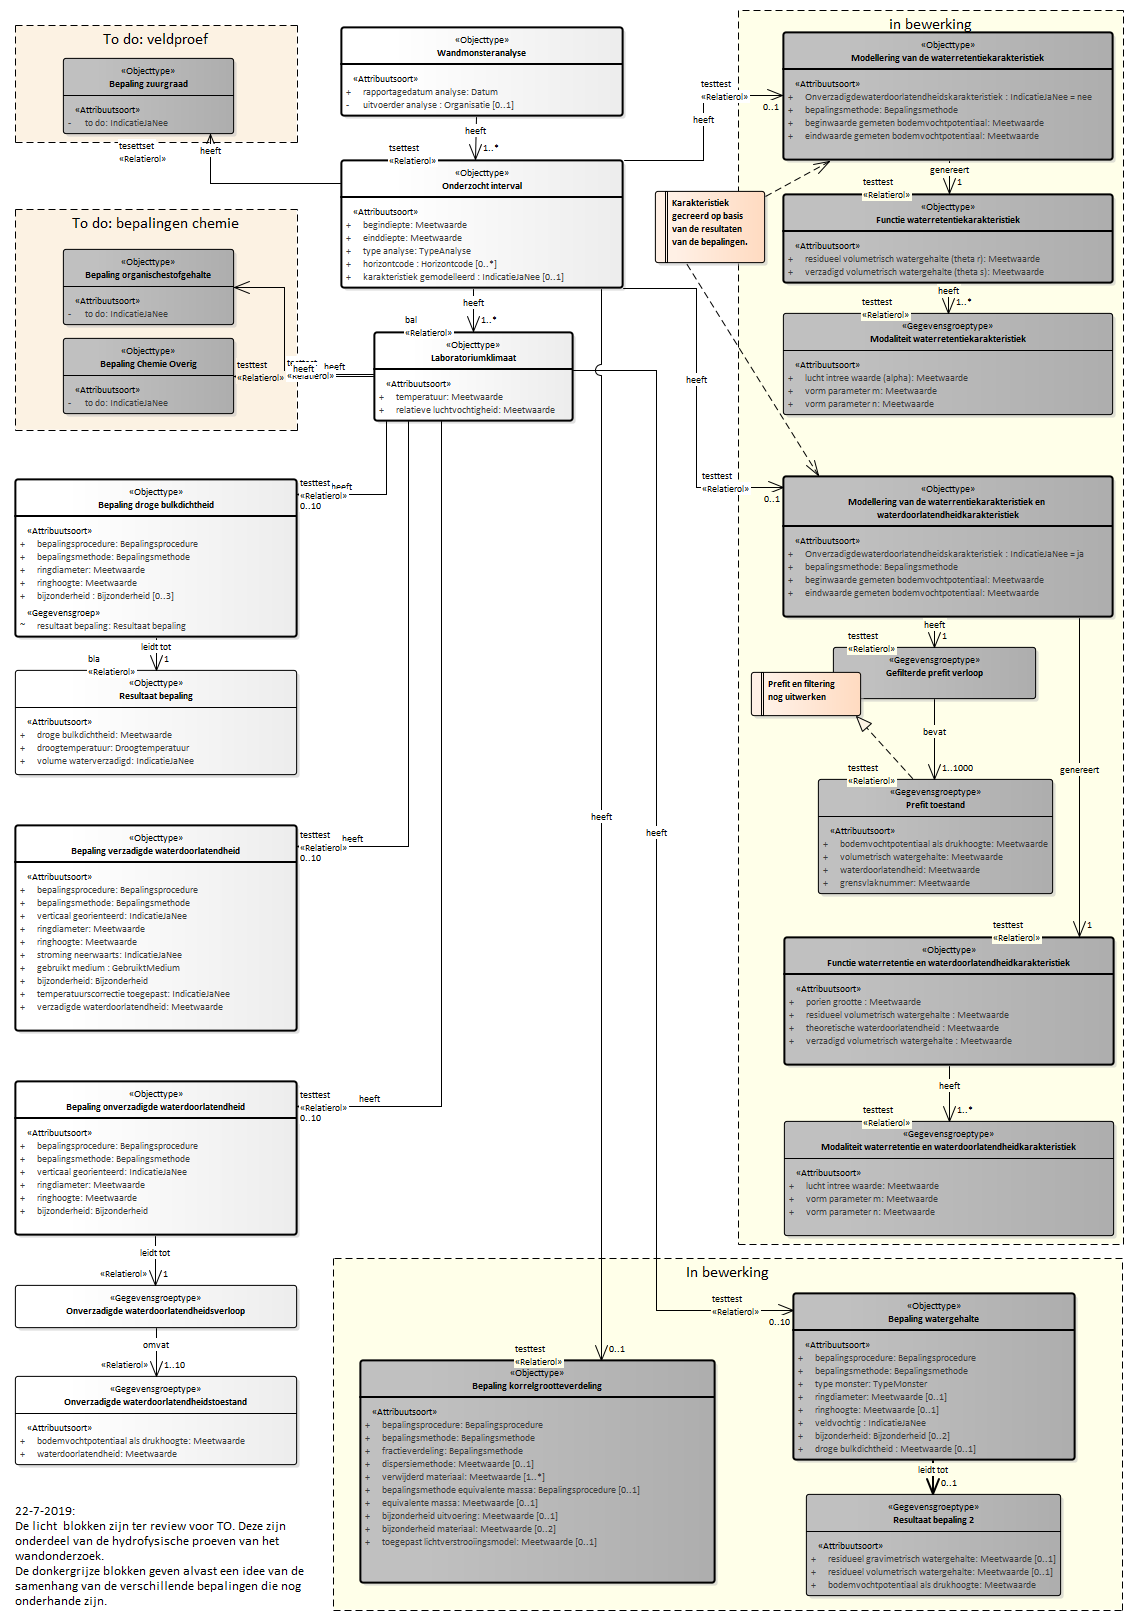
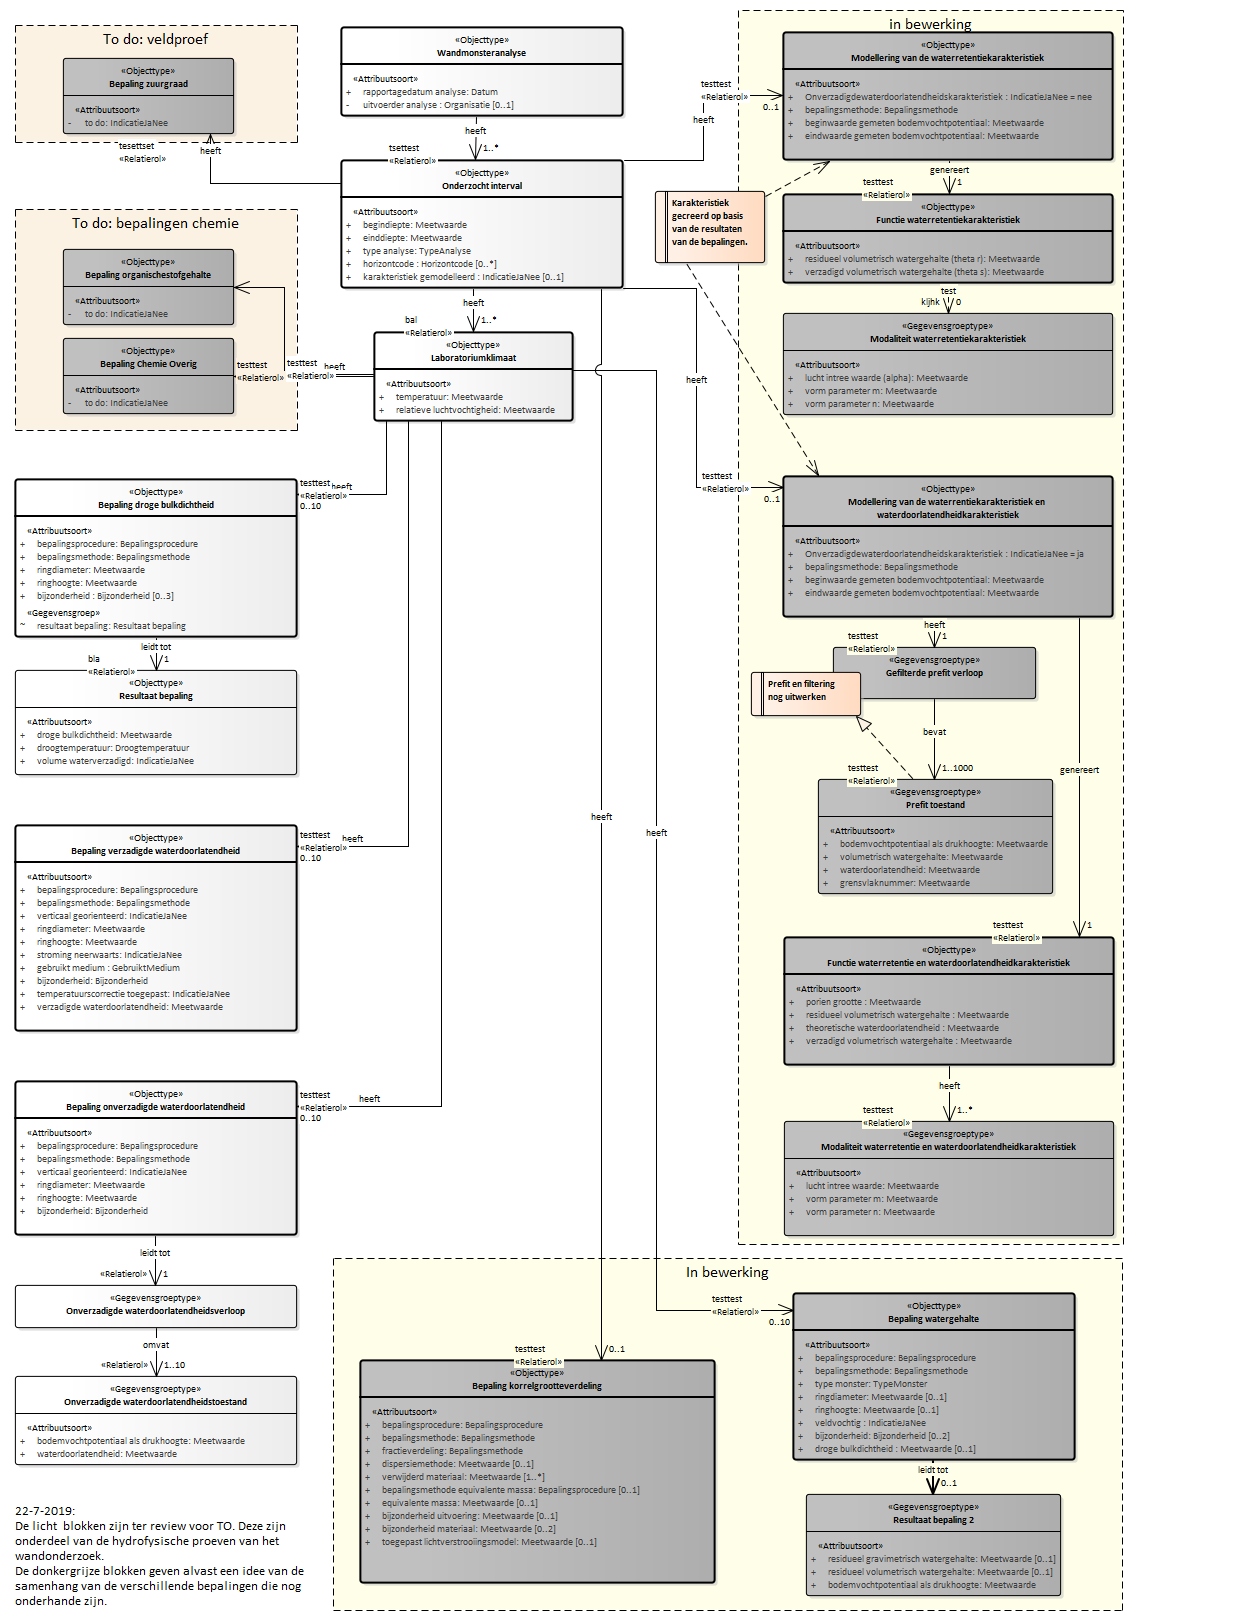
Conceptualmodel-BodemkundigwandonderzoektestSFR-test-1.0-0-20190724-20190729-174957

diff --git a/data/SFR-test-cat.html b/data/SFR-test-cat.html
@@ -2,7 +2,7 @@
 <section id="cat" class="normative" level="1">
    <h2>Catalogus</h2>
    <p><b>Deze tekst is normatief.</b>
-      <!--Conceptualmodel-BodemkundigwandonderzoektestSFR-test-1.0-0-20190724-20190729-161442 imvertor 1.53.2--></p>
+      <!--Conceptualmodel-BodemkundigwandonderzoektestSFR-test-1.0-0-20190724-20190729-174957 imvertor 1.53.2--></p>
    <div class="imageinfo overview"><img src="data/Images/EAID_CA9CD1EC_53FF_4a39_AC4D_DBBC9C184AE0.png" usemap="#imagemap-EAID_CA9CD1EC_53FF_4a39_AC4D_DBBC9C184AE0"><map name="imagemap-EAID_CA9CD1EC_53FF_4a39_AC4D_DBBC9C184AE0">
          <area shape="rect" coords="63,414,234,338" alt="" href="#graph_EAID_5A6D5EAE_B9F3_4478_BB5E_A3CA1BBB9AF1">
          <area shape="rect" coords="63,325,234,249" alt="" href="#graph_EAID_29CF2E71_FD42_4589_B6E8_0A26635A06C7">
@@ -28,8 +28,7 @@
          
          <div class="imageinfo "><img src="data/Images/EAID_F0303824_F2D2_4777_9035_EA3524D601A7.png" usemap="#imagemap-EAID_F0303824_F2D2_4777_9035_EA3524D601A7"><map name="imagemap-EAID_F0303824_F2D2_4777_9035_EA3524D601A7">
                <area shape="rect" coords="14,217,249,189" alt="" href="#graph_EAID_61AB3BF7_1769_47b2_81A8_75ECB699775E">
-               <area shape="rect" coords="10,124,245,10" alt="" href="#graph_EAID_6066C6DB_8452_4e99_BFBE_09AFED4E74FB"></map><p><b>Bepaling droge bulkdichtheid - detail</b> — &lt;i&gt;&lt;/i&gt;&lt;i&gt;&lt;/i&gt;&lt;i&gt;&lt;/i&gt;
-            </p>
+               <area shape="rect" coords="10,124,245,10" alt="" href="#graph_EAID_6066C6DB_8452_4e99_BFBE_09AFED4E74FB"></map><p><b>Bepaling droge bulkdichtheid - detail</b></p>
          </div>
          
          <table>
@@ -1693,25 +1692,6 @@
                <tr>
                   <th>Rol naam met kardinaliteiten</th>
                   <th>Definitie</th>
-               </tr>
-               <tr>
-                  <td>
-                     Functie waterretentiekarakteristiek
-                     [ 1 ]
-                     
-                     <a class="link" href="#detail_association_Wandmonsteranalyse_FunctieWaterretentiekarakteristiek_testtest">heeft: testtest</a>
-                     
-                     
-                     <a class="link" href="#global_class_Wandmonsteranalyse_ModaliteitWaterretentiekarakteristiek">Modaliteit waterretentiekarakteristiek</a>
-                     
-                     [ 1 .. * ]
-                     
-                  </td>
-                  <td>
-                     
-                     <p xmlns="http://www.w3.org/1999/xhtml" xmlns:html="http://www.w3.org/1999/xhtml" xmlns:imvert="http://www.imvertor.org/schema/system">to do</p>
-                     
-                  </td>
                </tr>
                <tr>
                   <td>
@@ -6349,66 +6329,6 @@
             </table>
             
          </section>
-         <a class="anchor" name="detail_association_Wandmonsteranalyse_FunctieWaterretentiekarakteristiek_testtest"></a><section id="detail_association_Wandmonsteranalyse_FunctieWaterretentiekarakteristiek_testtest" level="5">
-            <h5>Relatiesoort details <a href="#global_class_Wandmonsteranalyse_FunctieWaterretentiekarakteristiek">Functie waterretentiekarakteristiek</a> heeft
-            </h5>
-            
-            
-            <table>
-               <colgroup width="30%"></colgroup>
-               <colgroup width="70%"></colgroup>
-               <tbody>
-                  <tr>
-                     <th>Naam</th>
-                     <td>heeft</td>
-                  </tr>
-                  <tr>
-                     <th>Herkomst</th>
-                     <td>BRO</td>
-                  </tr>
-                  <tr>
-                     <th>Definitie</th>
-                     <td>
-                        
-                        <p xmlns="http://www.w3.org/1999/xhtml" xmlns:html="http://www.w3.org/1999/xhtml" xmlns:imvert="http://www.imvertor.org/schema/system">to do</p>
-                        
-                     </td>
-                  </tr>
-                  <tr>
-                     <th>Herkomst definitie</th>
-                     <td>BRO</td>
-                  </tr>
-                  <tr>
-                     <th>Mogelijk geen waarde</th>
-                     <td>Nee</td>
-                  </tr>
-                  <tr>
-                     <th>Indicatie materiële historie</th>
-                     <td>Nee</td>
-                  </tr>
-                  <tr>
-                     <th>Indicatie formele historie</th>
-                     <td>Nee</td>
-                  </tr>
-                  <tr>
-                     <th>Indicatie kardinaliteit</th>
-                     <td>1 .. *</td>
-                  </tr>
-                  <tr>
-                     <th>Indicatie authentiek</th>
-                     <td>Authentiek</td>
-                  </tr>
-                  <tr>
-                     <th>Gerelateerd objecttype</th>
-                     <td>
-                        <a class="link" href="#global_class_Wandmonsteranalyse_ModaliteitWaterretentiekarakteristiek">Modaliteit waterretentiekarakteristiek</a>
-                        
-                     </td>
-                  </tr>
-               </tbody>
-            </table>
-            
-         </section>
          
       </section>
       <a class="anchor" name="detail_class_Wandmonsteranalyse_Laboratoriumklimaat"></a><section id="detail_class_Wandmonsteranalyse_Laboratoriumklimaat" level="4">
@@ -8546,7 +8466,7 @@
 <section id="lis" class="normative" level="1">
    <h2>Inhoud van waardenlijsten</h2>
    <p><b>Deze tekst is normatief.</b>
-      <!--Conceptualmodel-BodemkundigwandonderzoektestSFR-test-1.0-0-20190724-20190729-161442 imvertor 1.53.2--></p><a class="anchor" name="graph_EAID_C5AB2139_D49A_4858_A21F_AA7FF241EE48"></a><a class="anchor" name="detail_class_Wandmonsteranalyse_Bepalingsmethode"></a><section id="detail_class_Wandmonsteranalyse_Bepalingsmethode" level="3">
+      <!--Conceptualmodel-BodemkundigwandonderzoektestSFR-test-1.0-0-20190724-20190729-174957 imvertor 1.53.2--></p><a class="anchor" name="graph_EAID_C5AB2139_D49A_4858_A21F_AA7FF241EE48"></a><a class="anchor" name="detail_class_Wandmonsteranalyse_Bepalingsmethode"></a><section id="detail_class_Wandmonsteranalyse_Bepalingsmethode" level="3">
       <h3>Codelijst details Bepalingsmethode</h3>
       
       <table>
